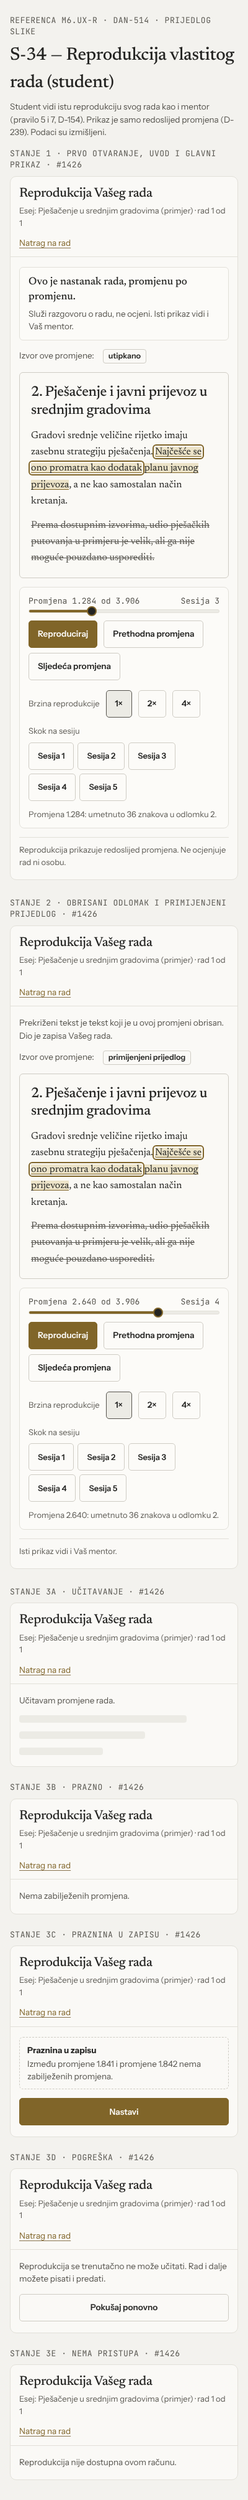
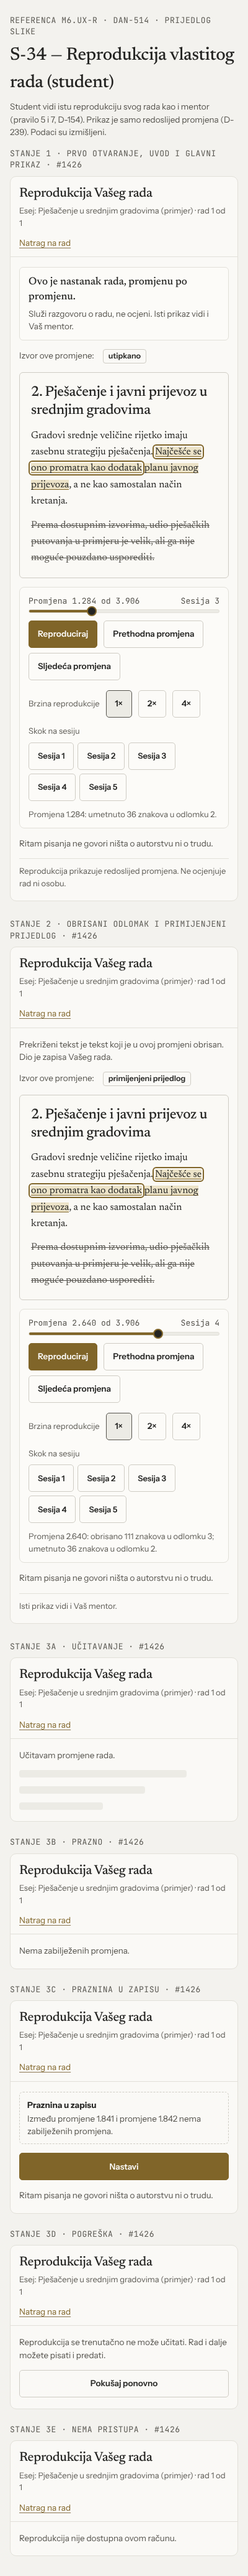
docs: fix M6 replay references after review and QA (DAN-514)
Add the selected paragraph text to the large-work state in N-09, the
constant PRODUCT section 6 note to every replay state in N-09 and S-34,
and describe both deletion and insertion in the S-34 state 2 live
region. Screenshots retaken.

Claude-Session: https://claude.ai/code/session_011GCKG85ZHPCXS5G6XvyMMs

diff --git a/docs/design/ductura/m6-reference/n09-reprodukcija-nastavnik.html b/docs/design/ductura/m6-reference/n09-reprodukcija-nastavnik.html
@@ -41,6 +41,7 @@
           <div class="ctl-row"><span class="meta">Skok na sesiju</span><div class="sessions"><button class="btn secondary" type="button">Sesija 1</button><button class="btn secondary" type="button">Sesija 2</button><button class="btn secondary" type="button" aria-current="true">Sesija 3</button><button class="btn secondary" type="button">Sesija 4</button><button class="btn secondary" type="button">Sesija 5</button></div></div>
           <p class="live" role="status" aria-live="polite">Promjena 1.284: umetnuto 36 znakova u odlomku 2.</p>
         </div>
+        <p class="note">Ritam pisanja ne govori ništa o autorstvu ni o trudu.</p>
         <p class="foot">Reprodukcija prikazuje redoslijed promjena. Ne ocjenjuje rad ni osobu.</p>
       </div>
     </div>
@@ -90,6 +91,7 @@
           <div class="ctl-row"><span class="meta">Skok na sesiju</span><div class="sessions"><button class="btn secondary" type="button">Sesija 1</button><button class="btn secondary" type="button">Sesija 2</button><button class="btn secondary" type="button" aria-current="true">Sesija 3</button><button class="btn secondary" type="button">Sesija 4</button><button class="btn secondary" type="button">Sesija 5</button></div></div>
           <p class="live" role="status" aria-live="polite">Promjena 2.071: umetnuto 36 znakova u odlomku 2.</p>
         </div>
+        <p class="note">Ritam pisanja ne govori ništa o autorstvu ni o trudu.</p>
         <p class="foot">Sesije su samo mjesta za skok. Nemaju trajanje ni ocjenu.</p>
       </div>
     </div>
@@ -122,6 +124,7 @@
         <div class="gap-mark" role="note"><strong>Praznina u zapisu</strong><span>Između promjene 1.841 i promjene 1.842 nema zabilježenih promjena.</span></div>
         <p class="note">Reprodukcija se nastavlja od sljedeće zabilježene promjene.</p>
         <button class="btn" type="button">Nastavi</button>
+        <p class="note">Ritam pisanja ne govori ništa o autorstvu ni o trudu.</p>
       </div>
     </div>
   </section>
@@ -166,6 +169,11 @@
           <div class="para-row" role="listitem"><span>Odlomak 13: Biciklistička infrastruktura</span><span class="count">promjene 1.389 do 1.640</span></div>
           <div class="para-row" role="listitem"><span>Odlomak 14: Parkiranje u središtu</span><span class="count">učitavam…</span></div>
         </div>
+        <div class="src-line"><span>Izvor ove promjene:</span><span class="src-tag">utipkano</span></div>
+        <div class="sheet" aria-label="Tekst odabranog odlomka u trenutku odabrane promjene">
+          <p class="para-mark">Odlomak 12: Pješačenje i javni prijevoz</p>
+          <p>Pješačenje se u srednjim gradovima najčešće planira uz javni prijevoz. <span class="ins cur">Stajališta su obično blizu središta</span>, pa je pješački dio putovanja kratak. <span class="del">Podaci o tome zasad nisu potpuni.</span></p>
+        </div>
         <div class="controls" role="group" aria-label="Kontrole reprodukcije">
           <div class="slider">
             <div class="slider-label"><span>Promjena 1.284 od 48.212</span><span>Sesija 3</span></div>
@@ -179,8 +187,9 @@
             <span class="meta" id="spd">Brzina reprodukcije</span><button class="btn secondary" type="button" aria-pressed="true">1×</button><button class="btn secondary" type="button" aria-pressed="false">2×</button><button class="btn secondary" type="button" aria-pressed="false">4×</button>
           </div>
           <div class="ctl-row"><span class="meta">Skok na sesiju</span><div class="sessions"><button class="btn secondary" type="button">Sesija 1</button><button class="btn secondary" type="button">Sesija 2</button><button class="btn secondary" type="button" aria-current="true">Sesija 3</button><button class="btn secondary" type="button">Sesija 4</button><button class="btn secondary" type="button">Sesija 5</button></div></div>
-          <p class="live" role="status" aria-live="polite">Promjena 1.284: umetnuto 36 znakova u odlomku 2.</p>
+          <p class="live" role="status" aria-live="polite">Promjena 1.284: umetnuto 35 znakova u odlomku 12.</p>
         </div>
+        <p class="note">Ritam pisanja ne govori ništa o autorstvu ni o trudu.</p>
         <p class="foot">Pomicanje po odlomcima ne blokira reprodukciju.</p>
       </div>
     </div>
@@ -213,6 +222,7 @@
           <div class="ctl-row"><span class="meta">Skok na sesiju</span><div class="sessions"><button class="btn secondary" type="button">Sesija 1</button><button class="btn secondary" type="button">Sesija 2</button><button class="btn secondary" type="button" aria-current="true">Sesija 3</button><button class="btn secondary" type="button">Sesija 4</button><button class="btn secondary" type="button">Sesija 5</button></div></div>
           <p class="live" role="status" aria-live="polite">Promjena 1.285: umetnuto 36 znakova u odlomku 2.</p>
         </div>
+        <p class="note">Ritam pisanja ne govori ništa o autorstvu ni o trudu.</p>
         <p class="meta">Svaka promjena opisuje se u području <code>aria-live</code>; tipkovnica: razmaknica pokreće i zaustavlja, strelice lijevo i desno mijenjaju promjenu.</p>
       </div>
     </div>

diff --git a/docs/design/ductura/m6-reference/s34-reprodukcija-student.html b/docs/design/ductura/m6-reference/s34-reprodukcija-student.html
@@ -41,6 +41,7 @@
           <div class="ctl-row"><span class="meta">Skok na sesiju</span><div class="sessions"><button class="btn secondary" type="button">Sesija 1</button><button class="btn secondary" type="button">Sesija 2</button><button class="btn secondary" type="button" aria-current="true">Sesija 3</button><button class="btn secondary" type="button">Sesija 4</button><button class="btn secondary" type="button">Sesija 5</button></div></div>
           <p class="live" role="status" aria-live="polite">Promjena 1.284: umetnuto 36 znakova u odlomku 2.</p>
         </div>
+        <p class="note">Ritam pisanja ne govori ništa o autorstvu ni o trudu.</p>
         <p class="foot">Reprodukcija prikazuje redoslijed promjena. Ne ocjenjuje rad ni osobu.</p>
       </div>
     </div>
@@ -71,8 +72,9 @@
             <span class="meta" id="spd">Brzina reprodukcije</span><button class="btn secondary" type="button" aria-pressed="true">1×</button><button class="btn secondary" type="button" aria-pressed="false">2×</button><button class="btn secondary" type="button" aria-pressed="false">4×</button>
           </div>
           <div class="ctl-row"><span class="meta">Skok na sesiju</span><div class="sessions"><button class="btn secondary" type="button">Sesija 1</button><button class="btn secondary" type="button">Sesija 2</button><button class="btn secondary" type="button">Sesija 3</button><button class="btn secondary" type="button" aria-current="true">Sesija 4</button><button class="btn secondary" type="button">Sesija 5</button></div></div>
-          <p class="live" role="status" aria-live="polite">Promjena 2.640: umetnuto 36 znakova u odlomku 2.</p>
+          <p class="live" role="status" aria-live="polite">Promjena 2.640: obrisano 111 znakova u odlomku 3; umetnuto 36 znakova u odlomku 2.</p>
         </div>
+        <p class="note">Ritam pisanja ne govori ništa o autorstvu ni o trudu.</p>
         <p class="foot">Isti prikaz vidi i Vaš mentor.</p>
       </div>
     </div>
@@ -104,6 +106,7 @@
       <div class="frame-body">
         <div class="gap-mark" role="note"><strong>Praznina u zapisu</strong><span>Između promjene 1.841 i promjene 1.842 nema zabilježenih promjena.</span></div>
         <button class="btn" type="button">Nastavi</button>
+        <p class="note">Ritam pisanja ne govori ništa o autorstvu ni o trudu.</p>
       </div>
     </div>
   </section>

diff --git a/docs/design/ductura/m6-reference/README.md b/docs/design/ductura/m6-reference/README.md
@@ -25,8 +25,9 @@ Opseg M6.UX-R po odluci orkestratora (#1091): PR 1 M6.2 (S-34, N-09); PR 2 M6.3/
 | učitavanje, prazno, pogreška | „Učitavam promjene rada.”, „Nema zabilježenih promjena.”, pogreška koja studentu potvrđuje da rad može pisati i predati |
 | praznina u zapisu | „Praznina u zapisu” bez objašnjenja uzroka |
 | nema pristupa | „Reprodukcija nije dostupna ovom računu.”; isti tekst za povjerenstvo (D-238) |
-| veliki rad | prikaz po odlomcima, reprodukcija se ne blokira |
+| veliki rad | prikaz po odlomcima, reprodukcija se ne blokira; tekst odabranog odlomka prikazan je tijekom reprodukcije |
 | smanjeno kretanje | korak po koraku bez animacije; tipkovnica: razmaknica, strelice |
+| stalni tekst | „Ritam pisanja ne govori ništa o autorstvu ni o trudu.” (`docs/PRODUCT.md` §6) u svakom stanju s reprodukcijom, uključujući prazninu u zapisu i veliki rad |
 
 Student vidi isti prikaz i rečenicu „Isti prikaz vidi i Vaš mentor.” (pravilo 5 i 7). Obrisani tekst prikazan je prekriženo uz objašnjenje.
 
